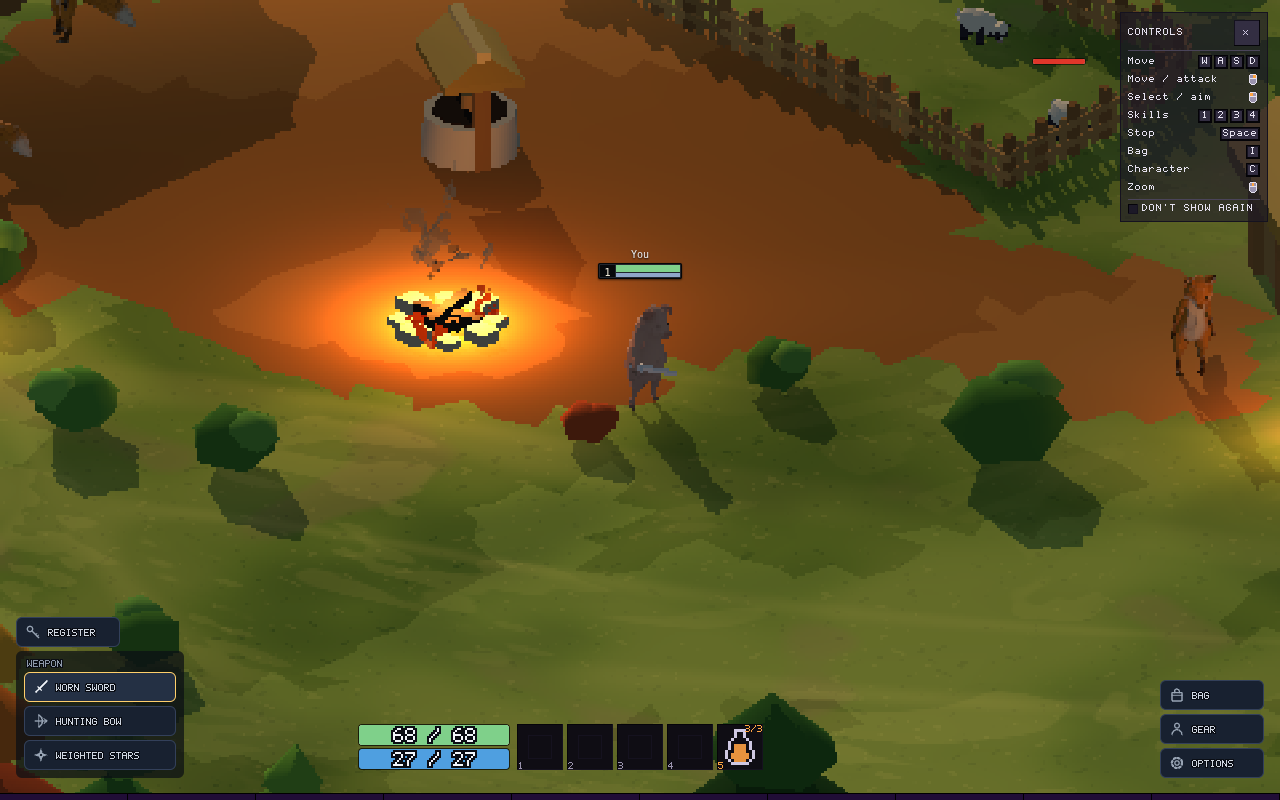
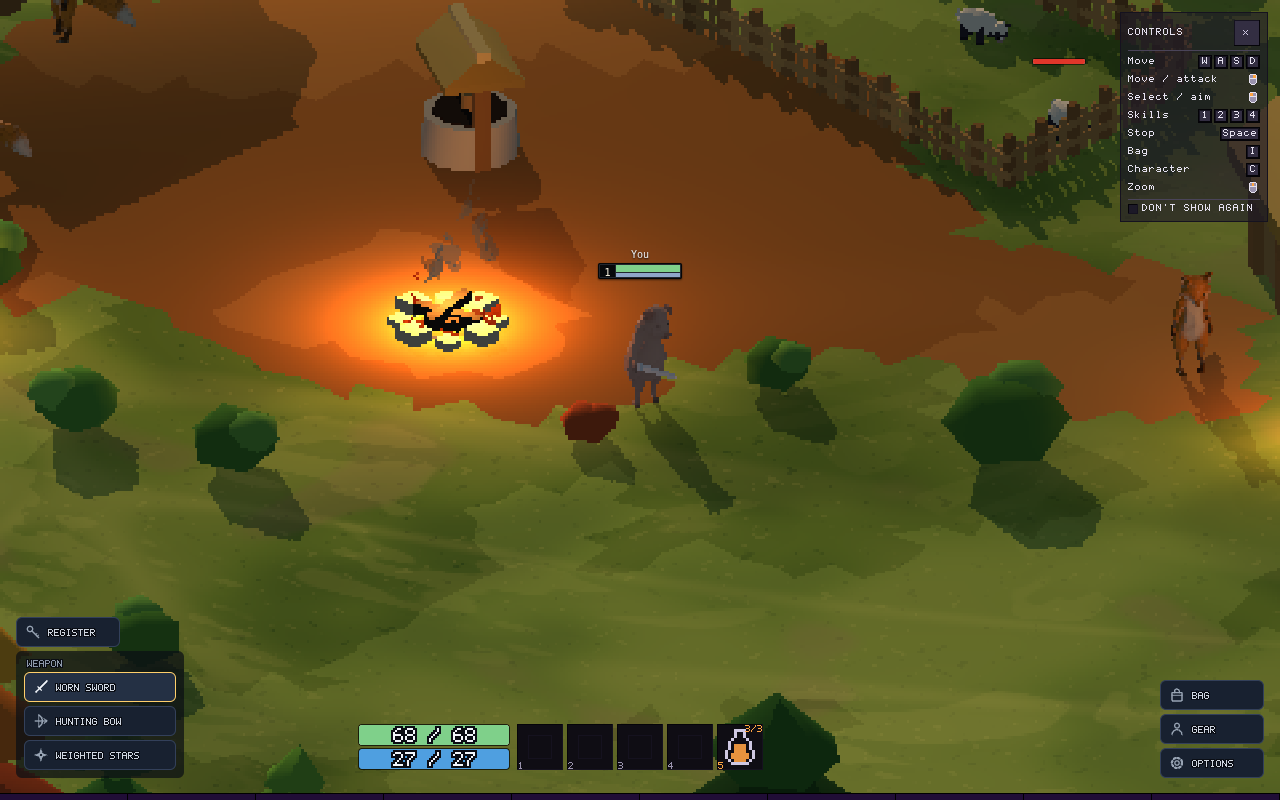
A pounce for the radish raccoon (spec 277)
Six authored poses over 900ms with the blow at 500, which is
`melee.slash`'s own wind-up -- so the frame the picture lands and the
frame the damage lands are the same frame, and the clip's own length is
the ability's whole wind-up plus follow-through, which makes its time
scale exactly 1. Authored as keys rather than generated from a phase
because it is a shape, and because its one important instant has to be
stated rather than passed through.

Two things about it were measured rather than reasoned, and both changed
the gesture.

**The body cannot lean.** There is no torso here -- `lean` rotates the
whole sphere -- so the first cut's 14 degrees back and 17 forward read as
the animal toppling, with the face, which is on the front of the ball,
going into the ground on the way. It is 9 either side now.

**And the arms cannot punch.** The shoulder sits at x 0.100 and the paw
at 0.239 on an arm 0.16 long: at rest the paw is within a centimetre of
full forward extension, so the furthest forward any shoulder angle
reaches is 0.260 and there is no thrust to author. Worse, a positive
swing rotates the arm from forward toward *down*, so +46 at contact swung
both paws under the belly and finished at x 0.122 -- behind where they
started, on the frame the blow lands.

So it is a downward swipe, which is what a small animal with short arms
does: rear up with both paws high and tucked, then slam them down and
out. The paws rise 0.19 over the coil and fall 0.26 into contact, which
[…]

diff --git a/scripts/preview-radish-raccoon.ts b/scripts/preview-radish-raccoon.ts
@@ -36,7 +36,15 @@ import { poseAt, type PosedRig } from '../src/units/clip-author.js';
 import { namingOf } from '../src/units/pose.js';
 import { MESH_OFFSET, RADISH_RACCOON_BONES, type PartId } from '../src/units/radish-raccoon-rig.js';
 import { labelOf } from '../src/units/radish-raccoon-skin.js';
-import { EAR_FLICK_AT, EAR_FLICK_SPAN, RADISH_RACCOON_CLIPS, RADISH_RACCOON_IDLE, RADISH_RACCOON_RUN } from '../src/units/radish-raccoon-clips.js';
+import {
+  ATTACK_CONTACT_MS,
+  EAR_FLICK_AT,
+  EAR_FLICK_SPAN,
+  RADISH_RACCOON_ATTACK,
+  RADISH_RACCOON_CLIPS,
+  RADISH_RACCOON_IDLE,
+  RADISH_RACCOON_RUN,
+} from '../src/units/radish-raccoon-clips.js';
 
 const MESH = 'assets/units/radish_raccoon_2/radish_raccoon_2.glb';
 const OUT_DIR = '.claude/screenshots';
@@ -319,7 +327,17 @@ function main(): void {
   const side = CAMERAS[0] as Camera;
   const front = CAMERAS[1] as Camera;
   sheet(
-    [strip(RADISH_RACCOON_RUN, side, 8), strip(RADISH_RACCOON_RUN, CAMERAS[2] as Camera, 8), strip(RADISH_RACCOON_IDLE, front, 8)],
+    [
+      strip(RADISH_RACCOON_RUN, side, 8),
+      strip(RADISH_RACCOON_RUN, CAMERAS[2] as Camera, 8),
+      strip(RADISH_RACCOON_IDLE, front, 8),
+      // The attack three-quarter rather than in profile. A pounce travels along
+      // the axis a side view compresses, and worse, both paws -- which are the
+      // whole read -- sit on the flanks, so the near one is a few pixels and the
+      // far one is behind the body. From the corner both are in shot and the
+      // travel is still visible.
+      strip(RADISH_RACCOON_ATTACK, CAMERAS[2] as Camera, 8),
+    ],
     `${OUT_DIR}/radish-raccoon-clips.png`,
   );
 
@@ -328,7 +346,13 @@ function main(): void {
   // probability about a third and a sheet that missed it looks exactly like a
   // sheet of an ear that never moved.
   sheet(
-    [strip(RADISH_RACCOON_IDLE, front, 8, EAR_FLICK_AT - 0.01, EAR_FLICK_AT + EAR_FLICK_SPAN + 0.01)],
+    [
+      strip(RADISH_RACCOON_IDLE, front, 8, EAR_FLICK_AT - 0.01, EAR_FLICK_AT + EAR_FLICK_SPAN + 0.01),
+      // The snap, at 25ms a frame either side of contact. The strike is 120ms
+      // of a 900ms clip and the whole read of the blow is in it, so an evenly
+      // spaced sheet shows the coil and the recovery and almost none of it.
+      strip(RADISH_RACCOON_ATTACK, CAMERAS[2] as Camera, 8, (ATTACK_CONTACT_MS - 120) / 900, (ATTACK_CONTACT_MS + 120) / 900),
+    ],
     `${OUT_DIR}/radish-raccoon-ear-flick.png`,
   );
 
@@ -359,6 +383,27 @@ function main(): void {
 
   for (const clip of RADISH_RACCOON_CLIPS) {
     console.log(`\n${clip.id}: ${clip.durationMs}ms`);
+    // On the attack the paws are the read, and they are two dark mittens a few
+    // pixels across on a sheet of a whole animal -- so where they go is a
+    // number rather than something to look for in a thumbnail. Forward reach is
+    // what the pounce is; height is what says it was thrown rather than shoved.
+    if (clip.id === 'attack') {
+      for (const hand of ['L_Hand', 'R_Hand'] as const) {
+        let ahead = Number.NEGATIVE_INFINITY;
+        let behind = Number.POSITIVE_INFINITY;
+        let high = Number.NEGATIVE_INFINITY;
+        let low = Number.POSITIVE_INFINITY;
+        for (let step = 0; step <= 36; step += 1) {
+          const world = poseWorldMatrices(nodes, poseAt(clip, rig, (step / 36) * clip.durationMs));
+          const m = world[nodes.findIndex((n) => n.name === hand)] as readonly number[];
+          ahead = Math.max(ahead, m[12] as number);
+          behind = Math.min(behind, m[12] as number);
+          high = Math.max(high, m[13] as number);
+          low = Math.min(low, m[13] as number);
+        }
+        console.log(`  ${hand}: reach ${(ahead - behind).toFixed(3)} forward, ${(high - low).toFixed(3)} vertical, furthest ${ahead.toFixed(3)}`);
+      }
+    }
     for (const foot of ['L_ToeBase', 'R_ToeBase'] as const) {
       const index = nodes.findIndex((n) => n.name === foot);
       let lowest = Number.POSITIVE_INFINITY;

diff --git a/scripts/make-radish-raccoon-clips.ts b/scripts/make-radish-raccoon-clips.ts
@@ -19,7 +19,7 @@ import { authorClipDocument, frameCount } from '../src/units/clip-author.js';
 import { writeGlb } from '../src/units/glb.js';
 import { readNodeTree, splitGlb } from '../src/units/glb-read.js';
 import { namingOf } from '../src/units/pose.js';
-import { RADISH_RACCOON_CLIPS } from '../src/units/radish-raccoon-clips.js';
+import { RADISH_RACCOON_LIBRARY } from '../src/units/radish-raccoon-clips.js';
 import { RADISH_RACCOON_FAMILY } from '../src/units/radish-raccoon-rig.js';
 
 const MESH = 'assets/units/radish_raccoon_2/radish_raccoon_2.glb';
@@ -36,7 +36,7 @@ if (naming === 'unknown') {
 const rig = { nodes, naming } as const;
 
 mkdirSync(CLIP_DIR, { recursive: true });
-for (const clip of RADISH_RACCOON_CLIPS) {
+for (const { clip } of RADISH_RACCOON_LIBRARY) {
   const document = authorClipDocument(clip, rig, GENERATOR);
   const bytes = writeGlb(document);
   writeFileSync(`${CLIP_DIR}/${clip.id}.glb`, bytes);
@@ -48,21 +48,23 @@ for (const clip of RADISH_RACCOON_CLIPS) {
 
 const library = {
   $comment:
-    "The radish raccoon family's clip library (spec 277). Two clips and no more, which is the whole roster this " +
-    'animal has: it is scenery with a walk, not a combatant, so there is no swing to author and no cast to ' +
-    'rebase. Both are authored rather than retargeted -- there is no bought library for a rig that exists ' +
+    "The radish raccoon family's clip library (spec 277). Three clips: it stands about, it runs, and it " +
+    'pounces. There is no cast to rebase and no death, which is the roster the state machine declares and no ' +
+    'more. All three are authored rather than retargeted -- there is no bought library for a rig that exists ' +
     'nowhere but here -- and their source is `src/units/radish-raccoon-clips.ts`; regenerate the bytes with ' +
-    '`npx tsx scripts/make-radish-raccoon-clips.ts`. Neither carries an event: events mark the frame a blow ' +
-    'lands, and nothing here lands one.',
+    '`npx tsx scripts/make-radish-raccoon-clips.ts`. Only `attack` carries events, because an event marks the ' +
+    'frame a blow lands and it is the only clip that lands one; its `swing.impact` is at 500 of 900ms, which ' +
+    'is `melee.slash`\'s own wind-up, so the frame the picture lands and the frame the damage lands are the ' +
+    'same frame.',
   formatVersion: 1,
   id: `${RADISH_RACCOON_FAMILY}.core`,
   skeletonRef: `${RADISH_RACCOON_FAMILY}.skeleton.json`,
-  clips: RADISH_RACCOON_CLIPS.map((clip) => ({
+  clips: RADISH_RACCOON_LIBRARY.map(({ clip, loop, events }) => ({
     id: clip.id,
     source: `${RADISH_RACCOON_FAMILY}_clips/${clip.id}.glb`,
     durationMs: clip.durationMs,
-    loop: true,
-    events: [],
+    loop,
+    events,
   })),
 };
 writeFileSync(LIBRARY, `${JSON.stringify(library, null, 2)}\n`);
